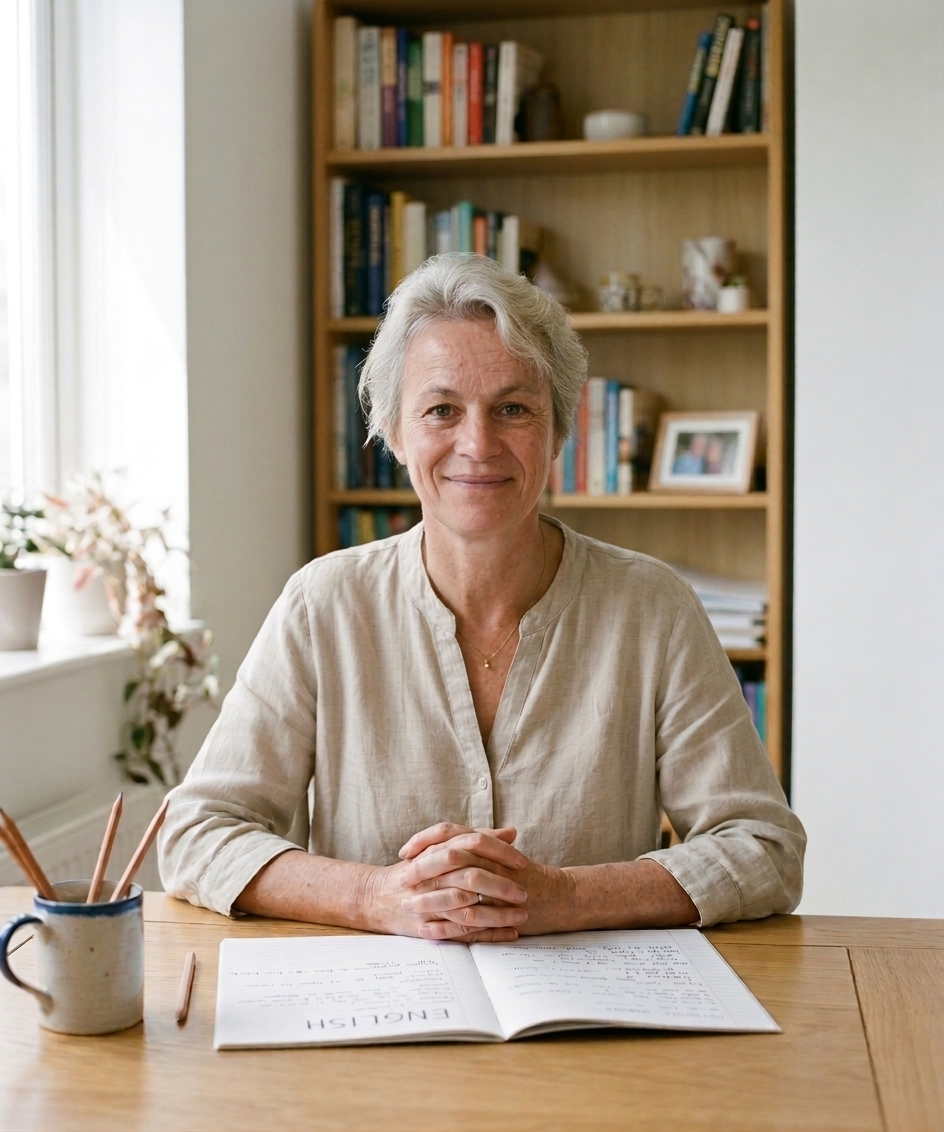
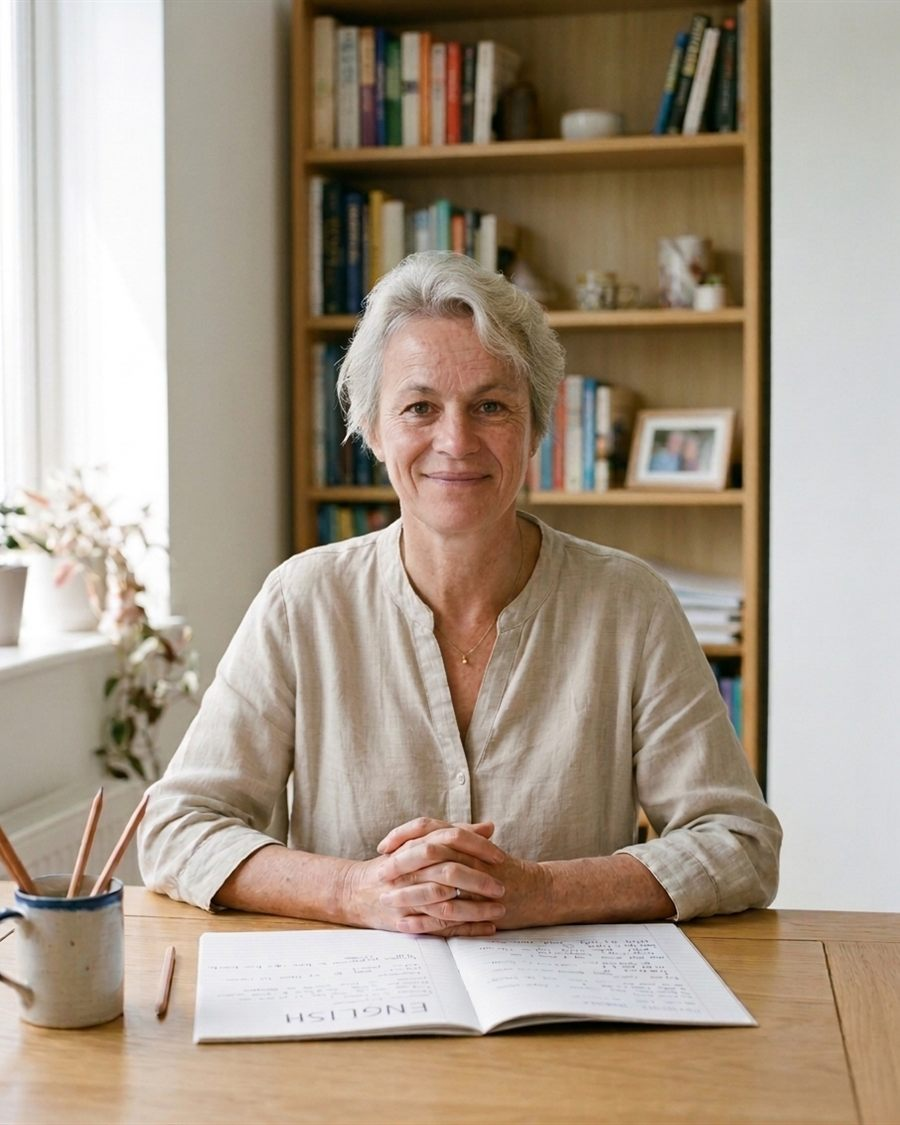
Offene Befunde nach Rückfrage umgesetzt
Preise: unter "1,5 × 90 Minuten" steht jetzt "abwechselnd eine und zwei
Einheiten", die Nachbarkarten nennen ihre Einheiten passend dazu.

Kontakt: Link "Route planen" in der Adresskarte, E-Mail-Links öffnen
mit dem Betreff "Kennenlernen".

Handy: Treppe 200 statt 300 px hoch.

Porträt auf 900 × 1125 px und 117 statt 683 KB verkleinert, Maße im
HTML berichtigt.

Fach heißt jetzt "Heimat- und Sachunterricht" (HSU); im Heft passt die
Schrift in drei schmalen Spalten zur Wortlänge.

diff --git a/index.html b/index.html
@@ -33,7 +33,7 @@
   "@context": "https://schema.org",
   "@type": "LocalBusiness",
   "name": "Lernstudio 1234",
-  "description": "Nachhilfe in Deisenhausen bei Krumbach für die Klassen 1 bis 10 in Deutsch, Mathematik sowie Heimat- und Sachkunde.",
+  "description": "Nachhilfe in Deisenhausen bei Krumbach für die Klassen 1 bis 10 in Deutsch, Mathematik sowie Heimat- und Sachunterricht (HSU).",
   "areaServed": ["Deisenhausen", "Krumbach (Schwaben)", "Landkreis Günzburg"],
   "url": "https://lernstudio1234.de/",
   "telephone": "+49 8282 5743",
@@ -103,7 +103,7 @@
           <svg class="icon" viewBox="0 0 24 24" fill="none" stroke="currentColor" stroke-width="2" stroke-linecap="round" stroke-linejoin="round" aria-hidden="true" focusable="false"><path d="M22 16.92v3a2 2 0 0 1-2.18 2 19.79 19.79 0 0 1-8.63-3.07 19.5 19.5 0 0 1-6-6 19.79 19.79 0 0 1-3.07-8.67A2 2 0 0 1 4.11 2h3a2 2 0 0 1 2 1.72 12.84 12.84 0 0 0 .7 2.81 2 2 0 0 1-.45 2.11L8.09 9.91a16 16 0 0 0 6 6l1.27-1.27a2 2 0 0 1 2.11-.45 12.84 12.84 0 0 0 2.81.7A2 2 0 0 1 22 16.92z"/></svg>
           Anrufen: 08282&nbsp;5743
         </a>
-        <a class="contact-link hero__narrow" href="mailto:info@lernstudio1234.de">
+        <a class="contact-link hero__narrow" href="mailto:info@lernstudio1234.de?subject=Kennenlernen">
           <svg class="icon" viewBox="0 0 24 24" fill="none" stroke="currentColor" stroke-width="2" stroke-linecap="round" stroke-linejoin="round" aria-hidden="true" focusable="false"><rect x="2" y="4" width="20" height="16" rx="2"/><path d="m22 7-10 6L2 7"/></svg>
           E-Mail schreiben
         </a>
@@ -135,7 +135,7 @@
     </header>
     <div class="about">
       <figure class="portrait" data-portrait>
-        <img src="assets/img/portrait.jpg" alt="Angelika Schuster" width="800" height="1000" loading="lazy">
+        <img src="assets/img/portrait.jpg" alt="Angelika Schuster" width="900" height="1125" loading="lazy">
         <p class="portrait__fallback">Liebe Eltern,<br>schön, dass Sie hier sind!</p>
       </figure>
       <div class="about__text">
@@ -209,7 +209,7 @@
         <div class="heft__label">
           <div class="heft__row">
             <p class="heft__key">Fach</p>
-            <h3 class="heft__name">Heimat- und Sachkunde</h3>
+            <h3 class="heft__name">Heimat- und Sach&shy;unterricht</h3>
           </div>
           <div class="heft__row">
             <p class="heft__key">Klasse</p>
@@ -228,7 +228,7 @@
             <svg class="icon" viewBox="0 0 24 24" fill="none" stroke="currentColor" stroke-width="2" stroke-linecap="round" stroke-linejoin="round" aria-hidden="true" focusable="false"><path d="M22 16.92v3a2 2 0 0 1-2.18 2 19.79 19.79 0 0 1-8.63-3.07 19.5 19.5 0 0 1-6-6 19.79 19.79 0 0 1-3.07-8.67A2 2 0 0 1 4.11 2h3a2 2 0 0 1 2 1.72 12.84 12.84 0 0 0 .7 2.81 2 2 0 0 1-.45 2.11L8.09 9.91a16 16 0 0 0 6 6l1.27-1.27a2 2 0 0 1 2.11-.45 12.84 12.84 0 0 0 2.81.7A2 2 0 0 1 22 16.92z"/></svg>
             08282&nbsp;5743
           </a>
-          <a class="contact-link" href="mailto:info@lernstudio1234.de">
+          <a class="contact-link" href="mailto:info@lernstudio1234.de?subject=Kennenlernen">
             <svg class="icon" viewBox="0 0 24 24" fill="none" stroke="currentColor" stroke-width="2" stroke-linecap="round" stroke-linejoin="round" aria-hidden="true" focusable="false"><rect x="2" y="4" width="20" height="16" rx="2"/><path d="m22 7-10 6L2 7"/></svg>
             E-Mail schreiben
           </a>
@@ -320,15 +320,15 @@
           <h3 class="term__title" id="laufzeit-y1">Vertragslaufzeit 1 Jahr</h3>
           <ul class="plans">
             <li class="plan">
-              <div><h4 class="plan__unit">1 × 90 Minuten</h4><p class="plan__sub">Unterrichtszeit pro Woche</p></div>
+              <div><h4 class="plan__unit">1 × 90 Minuten</h4><p class="plan__sub">eine Einheit pro Woche</p></div>
               <p class="plan__price"><strong>127&nbsp;€</strong> <span>im Monat</span></p>
             </li>
             <li class="plan">
-              <div><h4 class="plan__unit">1,5 × 90 Minuten</h4><p class="plan__sub">Unterrichtszeit pro Woche</p></div>
+              <div><h4 class="plan__unit">1,5 × 90 Minuten</h4><p class="plan__sub">abwechselnd eine und zwei Einheiten</p></div>
               <p class="plan__price"><strong>160&nbsp;€</strong> <span>im Monat</span></p>
             </li>
             <li class="plan">
-              <div><h4 class="plan__unit">2 × 90 Minuten</h4><p class="plan__sub">Unterrichtszeit pro Woche</p></div>
+              <div><h4 class="plan__unit">2 × 90 Minuten</h4><p class="plan__sub">zwei Einheiten pro Woche</p></div>
               <p class="plan__price"><strong>198&nbsp;€</strong> <span>im Monat</span></p>
             </li>
           </ul>
@@ -337,15 +337,15 @@
           <h3 class="term__title" id="laufzeit-m6">Vertragslaufzeit 6 Monate</h3>
           <ul class="plans">
             <li class="plan">
-              <div><h4 class="plan__unit">1 × 90 Minuten</h4><p class="plan__sub">Unterrichtszeit pro Woche</p></div>
+              <div><h4 class="plan__unit">1 × 90 Minuten</h4><p class="plan__sub">eine Einheit pro Woche</p></div>
               <p class="plan__price"><strong>136&nbsp;€</strong> <span>im Monat</span></p>
             </li>
             <li class="plan">
-              <div><h4 class="plan__unit">1,5 × 90 Minuten</h4><p class="plan__sub">Unterrichtszeit pro Woche</p></div>
+              <div><h4 class="plan__unit">1,5 × 90 Minuten</h4><p class="plan__sub">abwechselnd eine und zwei Einheiten</p></div>
               <p class="plan__price"><strong>175&nbsp;€</strong> <span>im Monat</span></p>
             </li>
             <li class="plan">
-              <div><h4 class="plan__unit">2 × 90 Minuten</h4><p class="plan__sub">Unterrichtszeit pro Woche</p></div>
+              <div><h4 class="plan__unit">2 × 90 Minuten</h4><p class="plan__sub">zwei Einheiten pro Woche</p></div>
               <p class="plan__price"><strong>216&nbsp;€</strong> <span>im Monat</span></p>
             </li>
           </ul>
@@ -354,15 +354,15 @@
           <h3 class="term__title" id="laufzeit-m3">Vertragslaufzeit 3 Monate</h3>
           <ul class="plans">
             <li class="plan">
-              <div><h4 class="plan__unit">1 × 90 Minuten</h4><p class="plan__sub">Unterrichtszeit pro Woche</p></div>
+              <div><h4 class="plan__unit">1 × 90 Minuten</h4><p class="plan__sub">eine Einheit pro Woche</p></div>
               <p class="plan__price"><strong>149&nbsp;€</strong> <span>im Monat</span></p>
             </li>
             <li class="plan">
-              <div><h4 class="plan__unit">1,5 × 90 Minuten</h4><p class="plan__sub">Unterrichtszeit pro Woche</p></div>
+              <div><h4 class="plan__unit">1,5 × 90 Minuten</h4><p class="plan__sub">abwechselnd eine und zwei Einheiten</p></div>
               <p class="plan__price"><strong>195&nbsp;€</strong> <span>im Monat</span></p>
             </li>
             <li class="plan">
-              <div><h4 class="plan__unit">2 × 90 Minuten</h4><p class="plan__sub">Unterrichtszeit pro Woche</p></div>
+              <div><h4 class="plan__unit">2 × 90 Minuten</h4><p class="plan__sub">zwei Einheiten pro Woche</p></div>
               <p class="plan__price"><strong>240&nbsp;€</strong> <span>im Monat</span></p>
             </li>
           </ul>
@@ -396,7 +396,7 @@
           <svg class="icon" viewBox="0 0 24 24" fill="none" stroke="currentColor" stroke-width="2" stroke-linecap="round" stroke-linejoin="round" aria-hidden="true" focusable="false"><path d="M22 16.92v3a2 2 0 0 1-2.18 2 19.79 19.79 0 0 1-8.63-3.07 19.5 19.5 0 0 1-6-6 19.79 19.79 0 0 1-3.07-8.67A2 2 0 0 1 4.11 2h3a2 2 0 0 1 2 1.72 12.84 12.84 0 0 0 .7 2.81 2 2 0 0 1-.45 2.11L8.09 9.91a16 16 0 0 0 6 6l1.27-1.27a2 2 0 0 1 2.11-.45 12.84 12.84 0 0 0 2.81.7A2 2 0 0 1 22 16.92z"/></svg>
           08282&nbsp;5743
         </a>
-        <a class="btn btn--light" href="mailto:info@lernstudio1234.de">
+        <a class="btn btn--light" href="mailto:info@lernstudio1234.de?subject=Kennenlernen">
           <svg class="icon" viewBox="0 0 24 24" fill="none" stroke="currentColor" stroke-width="2" stroke-linecap="round" stroke-linejoin="round" aria-hidden="true" focusable="false"><rect x="2" y="4" width="20" height="16" rx="2"/><path d="m22 7-10 6L2 7"/></svg>
           info@lernstudio1234.de
         </a>
@@ -406,6 +406,12 @@
       <p class="label">Unterrichtsräume</p>
       <p><strong>Lernstudio 1234</strong><br>Angelika Schuster<br>Ulmer Str.&nbsp;15<br>86489 Deisenhausen</p>
       <p class="contact__hint">Von Krumbach aus sind es nur wenige Autominuten.</p>
+      <p>
+        <a class="contact-link" href="https://www.google.com/maps/dir/?api=1&amp;destination=Ulmer+Str.+15%2C+86489+Deisenhausen" rel="noopener">
+          <svg class="icon" viewBox="0 0 24 24" fill="none" stroke="currentColor" stroke-width="2" stroke-linecap="round" stroke-linejoin="round" aria-hidden="true" focusable="false"><path d="M20 10c0 4.993-5.539 10.193-7.399 11.799a1 1 0 0 1-1.202 0C9.539 20.193 4 14.993 4 10a8 8 0 0 1 16 0"/><circle cx="12" cy="10" r="3"/></svg>
+          Route planen
+        </a>
+      </p>
     </address>
   </div>
 </section>
@@ -418,7 +424,7 @@
     <svg class="icon" viewBox="0 0 24 24" fill="none" stroke="currentColor" stroke-width="2" stroke-linecap="round" stroke-linejoin="round" aria-hidden="true" focusable="false"><path d="M22 16.92v3a2 2 0 0 1-2.18 2 19.79 19.79 0 0 1-8.63-3.07 19.5 19.5 0 0 1-6-6 19.79 19.79 0 0 1-3.07-8.67A2 2 0 0 1 4.11 2h3a2 2 0 0 1 2 1.72 12.84 12.84 0 0 0 .7 2.81 2 2 0 0 1-.45 2.11L8.09 9.91a16 16 0 0 0 6 6l1.27-1.27a2 2 0 0 1 2.11-.45 12.84 12.84 0 0 0 2.81.7A2 2 0 0 1 22 16.92z"/></svg>
     Anrufen
   </a>
-  <a class="callbar__link" href="mailto:info@lernstudio1234.de">
+  <a class="callbar__link" href="mailto:info@lernstudio1234.de?subject=Kennenlernen">
     <svg class="icon" viewBox="0 0 24 24" fill="none" stroke="currentColor" stroke-width="2" stroke-linecap="round" stroke-linejoin="round" aria-hidden="true" focusable="false"><rect x="2" y="4" width="20" height="16" rx="2"/><path d="m22 7-10 6L2 7"/></svg>
     E-Mail
   </a>

diff --git a/assets/css/style.css b/assets/css/style.css
@@ -572,6 +572,17 @@ h3 {
   color: var(--ink);
 }
 
+/* Schmale Fenster: niedrigere Treppe, die unterste Stufe bleibt hoch genug für Ziffer und zwei Zeilen Text. */
+@media (max-width: 780px) {
+  .steps {
+    height: 200px;
+  }
+
+  .step--1 { --height: 46%; }
+  .step--2 { --height: 64%; }
+  .step--3 { --height: 82%; }
+}
+
 .step__num {
   font-family: var(--font-display);
   font-weight: 800;
@@ -900,6 +911,13 @@ h3 {
   font-weight: 400;
   font-size: 1.625rem;
   line-height: 1.7;
+}
+
+/* In drei schmalen Spalten muss „Sachunterricht“ als längstes Wort ins Etikett passen. */
+@media (min-width: 960px) {
+  .heft__name {
+    font-size: clamp(1.25rem, 2.1vw, 1.625rem);
+  }
 }
 
 .heft__class {
@@ -1254,6 +1272,11 @@ h3 {
   border-top: 1px solid var(--line);
   font-size: 1rem;
   color: var(--ink-soft);
+}
+
+.contact__card .contact-link {
+  margin-top: 4px;
+  font-size: 1rem;
 }
 
 /* ---------- Fuß ---------- */
